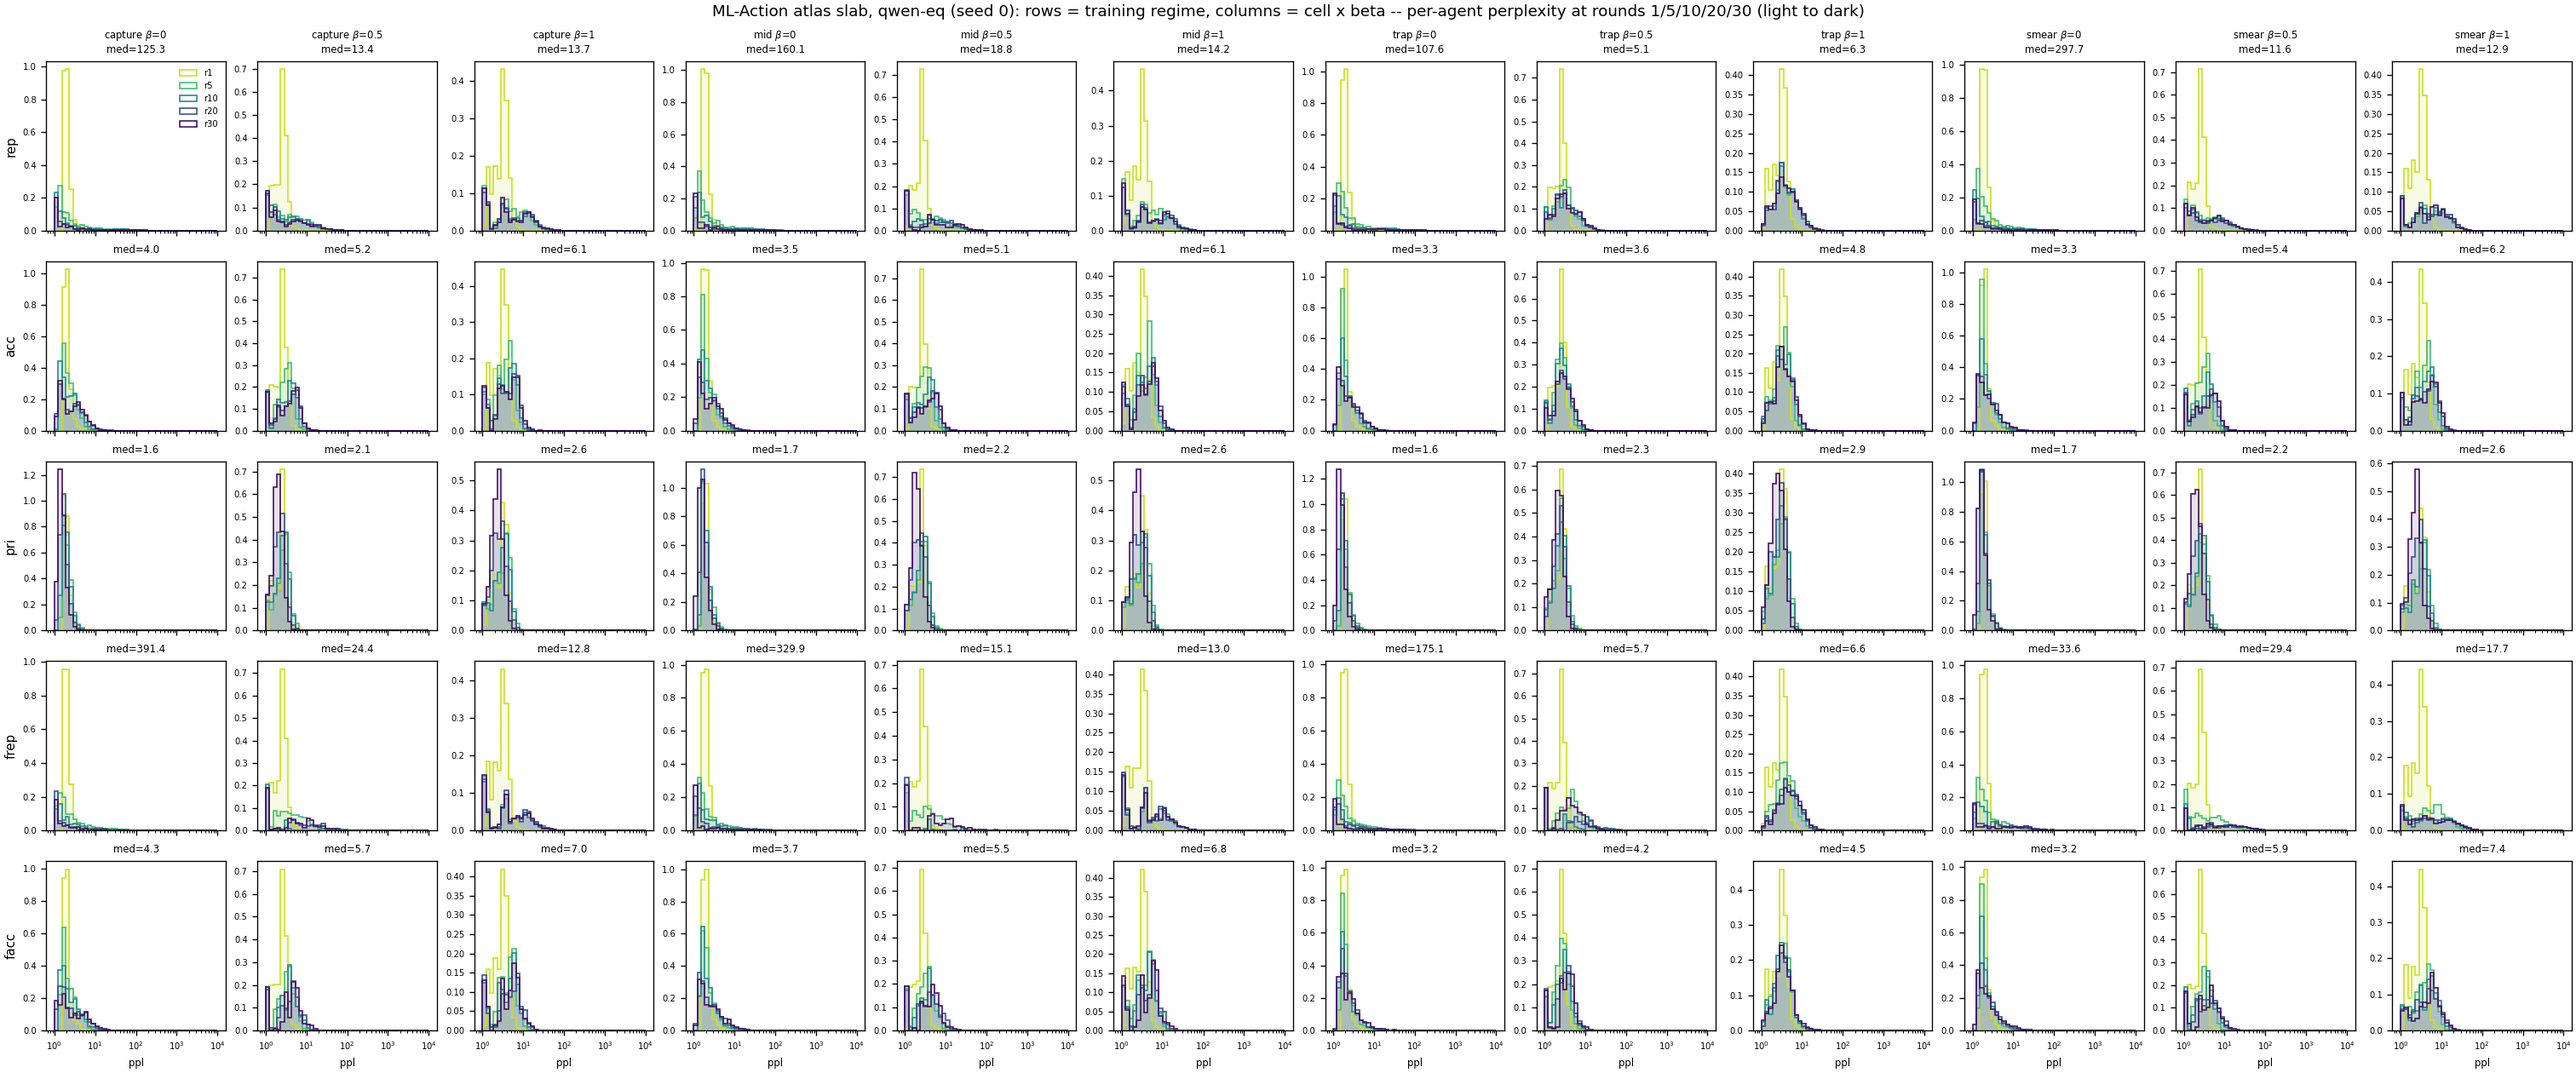
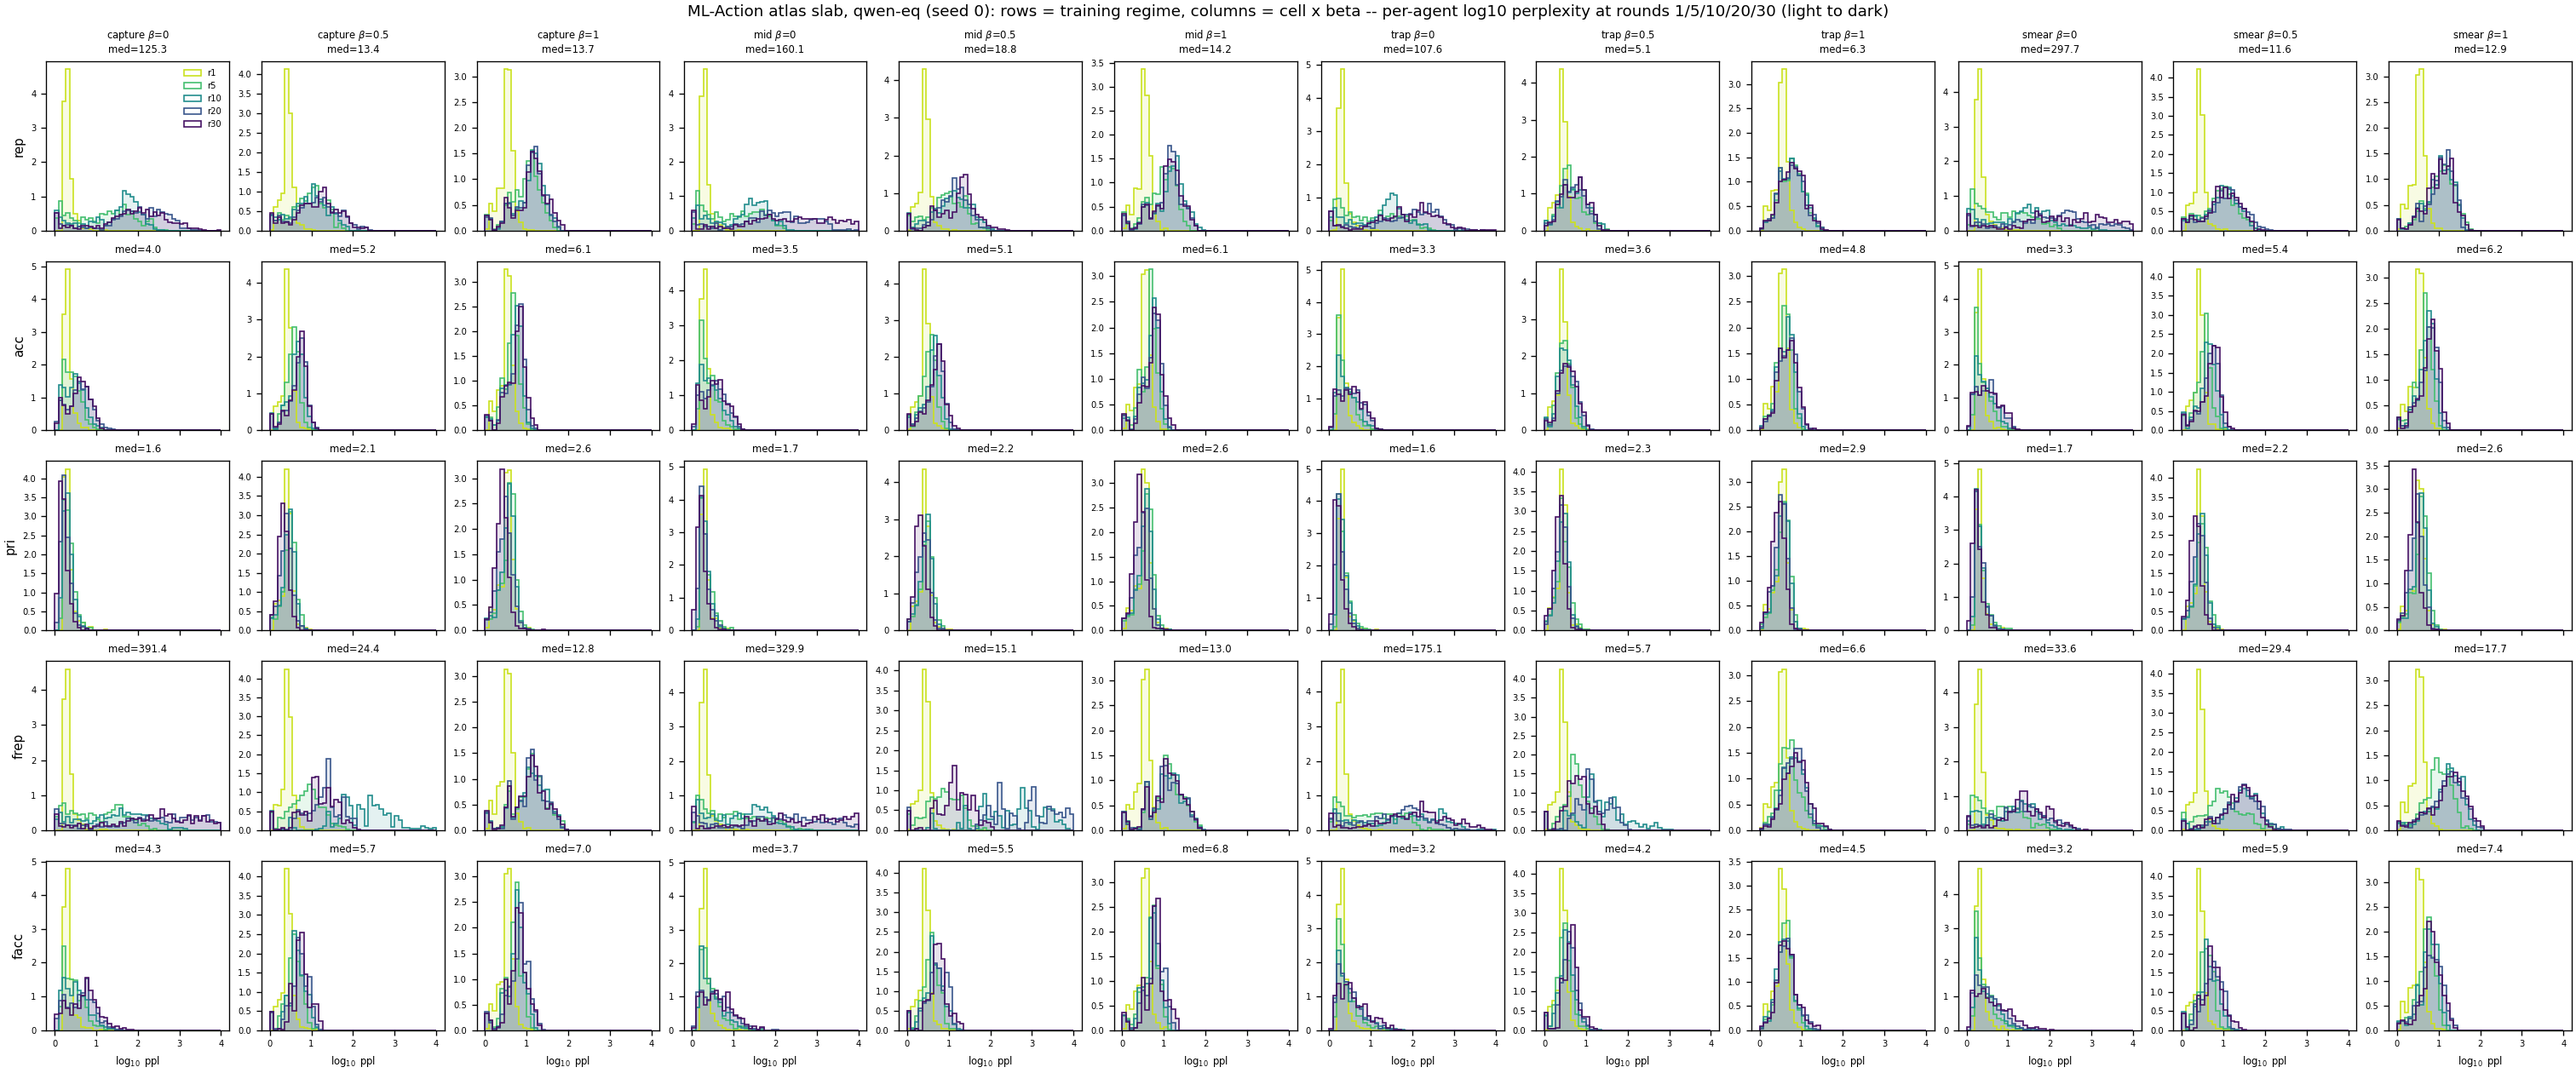
predict

diff --git a/experiments/llm/plot_knob_ppl_lines.py b/experiments/llm/plot_knob_ppl_lines.py
@@ -1,0 +1,121 @@
+"""Model-health companion to the knob grids: median log10 perplexity per
+round for the gate dial (legend = eps_AI) and feature dial (legend =
+realized probe R2), one column per beta. Qwen only (dial runs are Qwen).
+"""
+import os
+import numpy as np
+import pandas as pd
+import torch
+
+os.environ.setdefault("MPLCONFIGDIR", "/tmp/mpl")
+import matplotlib
+matplotlib.use("Agg")
+import matplotlib.pyplot as plt
+
+RUNS = "runs/pokec_gated_lm"
+FIGS = "experiments/llm/figs/qwen"
+GATE_LEVELS = [("a005", 0.05), ("a010", 0.10), ("a015", 0.15), ("a020", 0.20),
+               ("a030", 0.30), ("a040", 0.40), ("a070", 0.70), ("a100", 1.00)]
+FEAT_KNOBS = ["p100", "p065", "p040", "p033", "p015", "p005", "nat",
+              "q025", "q050", "q100"]
+BETAS = [("b0", "0"), ("b0p5", "0.5"), ("b1", "1")]
+
+LEGACY = {}
+for c in ["e040_a010", "e040_a020", "e040_a040", "e020_a040"]:
+    LEGACY[(c, "b0")] = f"mla2dv2_{c}_b0_s0"
+for c in ["e040_a010", "e040_a040", "e020_a040"]:
+    for b in ["b0p5", "b1"]:
+        LEGACY[(c, b)] = f"mla2bv2_{c}_{b}_s0"
+
+
+def exists(tag):
+    return tag and os.path.exists(f"{RUNS}/{tag}/trajectory.pt")
+
+
+def gate_tag(ac, beta):
+    for t in (f"mlatA_e040_{ac}_rep_{beta}_s0",
+              f"mlat_e040_{ac}_rep_{beta}_s0",
+              LEGACY.get((f"e040_{ac}", beta), "")):
+        if exists(t):
+            return t
+    return None
+
+
+def feat_tag(knob, beta):
+    if knob == "nat":
+        for t in (f"mlat_e040_a040_rep_{beta}_s0", LEGACY.get(("e040_a040", beta), "")):
+            if exists(t):
+                return t
+        return None
+    t = f"mlatF_{knob}_e040_a040_rep_{beta}_s0"
+    return t if exists(t) else None
+
+
+def load(tag):
+    d = torch.load(f"{RUNS}/{tag}/trajectory.pt", map_location="cpu", weights_only=False)
+    lp = np.log10(np.clip(np.asarray(d["ppl_raw"], np.float32), 1.0, None))
+    return np.median(lp, axis=1), d
+
+
+def realized_r2(d):
+    prof = pd.DataFrame(d["profiles"])
+    y = np.asarray(d["innate"], float)
+    cols = []
+    for c in prof.columns:
+        v = prof[c]
+        if pd.api.types.is_numeric_dtype(v):
+            cols.append(v.values.astype(float)[:, None])
+        else:
+            cols.append(pd.get_dummies(v).values.astype(float))
+    X = np.hstack(cols); X = (X - X.mean(0)) / (X.std(0) + 1e-9)
+    rng = np.random.default_rng(0); idx = rng.permutation(len(y)); yh = np.zeros_like(y)
+    for f in range(5):
+        te = idx[f::5]; tr = np.setdiff1d(idx, te)
+        w = np.linalg.solve(X[tr].T @ X[tr] + np.eye(X.shape[1]),
+                            X[tr].T @ (y[tr] - y[tr].mean()))
+        yh[te] = y[tr].mean() + X[te] @ w
+    return float(1 - ((y - yh) ** 2).sum() / ((y - y.mean()) ** 2).sum())
+
+
+plt.rcParams.update({"font.family": "serif", "mathtext.fontset": "stix",
+                     "axes.spines.top": False, "axes.spines.right": False,
+                     "axes.linewidth": 1.1, "xtick.labelsize": 10, "ytick.labelsize": 10})
+
+fig, axes = plt.subplots(2, 3, figsize=(13.5, 7.6), sharex=True, sharey=True,
+                         constrained_layout=True)
+for ci, (bc, blab) in enumerate(BETAS):
+    rows = []
+    for ac, aval in GATE_LEVELS:
+        tag = gate_tag(ac, bc)
+        if tag:
+            rows.append((aval, load(tag)[0]))
+    ramp = plt.cm.GnBu(np.linspace(0.95, 0.35, max(len(rows), 2)))
+    for (lv, y), c in zip(sorted(rows, key=lambda z: -z[0]), ramp):
+        axes[0, ci].plot(np.arange(1, len(y) + 1), y, color=c, lw=2.0, label=f"{lv:.2f}")
+    axes[0, ci].set_title(f"gate dial, $\\beta$={blab}", fontsize=12)
+    if rows:
+        axes[0, ci].legend(title="$\\epsilon_{AI}$", fontsize=8, title_fontsize=10,
+                           frameon=False, ncols=2)
+
+    rows = []
+    for knob in FEAT_KNOBS:
+        tag = feat_tag(knob, bc)
+        if tag:
+            y, d = load(tag)
+            rows.append((realized_r2(d), y))
+    ramp = plt.cm.GnBu(np.linspace(0.95, 0.35, max(len(rows), 2)))
+    for (lv, y), c in zip(sorted(rows, key=lambda z: -z[0]), ramp):
+        axes[1, ci].plot(np.arange(1, len(y) + 1), y, color=c, lw=2.0, label=f"{lv:.2f}")
+    axes[1, ci].set_title(f"feature dial, $\\beta$={blab}", fontsize=12)
+    if rows:
+        axes[1, ci].legend(title="$R^2$", fontsize=8, title_fontsize=10,
+                           frameon=False, ncols=2)
+    axes[1, ci].set_xlabel("round", fontsize=12)
+for ax in axes[:, 0]:
+    ax.set_ylabel("median $\\log_{10}$ ppl", fontsize=12)
+fig.suptitle("Qwen ML-Action dials (trap-cell world, rep/continual, seed 0): "
+             "model health per round", fontsize=13)
+out = f"{FIGS}/knob_ppl_lines.png"
+fig.savefig(out, dpi=140)
+plt.close(fig)
+print(f"saved {out}")

diff --git a/experiments/llm/plot_ppl_lines.py b/experiments/llm/plot_ppl_lines.py
@@ -1,0 +1,98 @@
+"""Model-health trajectories: per-round log10 perplexity as line charts,
+one figure per (model arm, statistic). Panels: rows = beta, cols = cell;
+lines = training regime (color = data recipe, dashed = fresh weights).
+"""
+import os
+import numpy as np
+import torch
+
+os.environ.setdefault("MPLCONFIGDIR", "/tmp/mpl")
+import matplotlib
+matplotlib.use("Agg")
+import matplotlib.pyplot as plt
+
+RUNS = "runs/pokec_gated_lm"
+FIGS = "experiments/llm/figs"
+MODELS = {
+    "qwen": "mlat",
+    "qwen-reset": "mlatR",
+    "qwen-eq": "mlatE",
+    "llama": "mlatL",
+    "gemma": "mlatG",
+    "mistral": "mlatM",
+}
+CELLS = ["e040_a010", "e040_a020", "e040_a040", "e020_a040"]
+CELL_LABEL = {"e040_a010": "capture", "e040_a020": "mid",
+              "e040_a040": "trap", "e020_a040": "smear"}
+REGIMES = ["rep", "acc", "pri", "frep", "facc"]
+STYLE = {"rep": ("#1b9e77", "-"), "acc": ("#d95f02", "-"), "pri": ("#7570b3", "-"),
+         "frep": ("#1b9e77", "--"), "facc": ("#d95f02", "--")}
+BETAS = [("b0", "0"), ("b0p5", "0.5"), ("b1", "1")]
+
+LEGACY = {}
+for c in CELLS:
+    LEGACY[(c, "rep", "b0")] = f"mla2dv2_{c}_b0_s0"
+for c in ["e040_a010", "e040_a040", "e020_a040"]:
+    for b in ["b0p5", "b1"]:
+        LEGACY[(c, "rep", b)] = f"mla2bv2_{c}_{b}_s0"
+LEGACY[("e040_a040", "acc", "b0")] = "mla2drv2_e040_a040_b0_acc_s0"
+LEGACY[("e040_a040", "pri", "b0")] = "mla2drv2_e040_a040_b0_pri_s0"
+LEGACY[("e040_a040", "frep", "b0")] = "mla2dfv2_e040_a040_b0_rep_s0"
+LEGACY[("e040_a040", "facc", "b0")] = "mla2dfv2_e040_a040_b0_acc_s0"
+
+
+def find_tag(model, cell, regime, beta):
+    tag = f"{MODELS[model]}_{cell}_{regime}_{beta}_s0"
+    if os.path.exists(f"{RUNS}/{tag}/trajectory.pt"):
+        return tag
+    if model == "qwen":
+        leg = LEGACY.get((cell, regime, beta))
+        if leg and os.path.exists(f"{RUNS}/{leg}/trajectory.pt"):
+            return leg
+    return None
+
+
+def load_lp(tag):
+    d = torch.load(f"{RUNS}/{tag}/trajectory.pt", map_location="cpu", weights_only=False)
+    return np.log10(np.clip(np.asarray(d["ppl_raw"], np.float32), 1.0, None))
+
+
+plt.rcParams.update({"font.family": "serif", "mathtext.fontset": "stix",
+                     "axes.spines.top": False, "axes.spines.right": False,
+                     "axes.linewidth": 1.0, "xtick.labelsize": 9, "ytick.labelsize": 9})
+
+for model in MODELS:
+    if not any(find_tag(model, c, r, b) for c in CELLS for r in REGIMES
+               for b, _ in BETAS):
+        continue
+    os.makedirs(f"{FIGS}/{model}", exist_ok=True)
+    for stat, fn in [("median", lambda a: np.median(a, axis=1)),
+                     ("mean", lambda a: a.mean(axis=1))]:
+        fig, axes = plt.subplots(len(BETAS), len(CELLS), figsize=(13.5, 8.2),
+                                 sharex=True, sharey=True, constrained_layout=True)
+        for ri, (bc, blab) in enumerate(BETAS):
+            for ci, cell in enumerate(CELLS):
+                ax = axes[ri, ci]
+                for regime in REGIMES:
+                    tag = find_tag(model, cell, regime, bc)
+                    if tag is None:
+                        continue
+                    y = fn(load_lp(tag))
+                    color, ls = STYLE[regime]
+                    ax.plot(np.arange(1, len(y) + 1), y, color=color, ls=ls,
+                            lw=1.8, label=regime)
+                if ri == 0:
+                    ax.set_title(CELL_LABEL[cell], fontsize=12)
+                if ci == 0:
+                    ax.set_ylabel(f"$\\beta$={blab}\n{stat} $\\log_{{10}}$ ppl",
+                                  fontsize=11)
+                if ri == len(BETAS) - 1:
+                    ax.set_xlabel("round", fontsize=11)
+        axes[0, 0].legend(fontsize=9, frameon=False, ncols=2)
+        fig.suptitle(f"ML-Action atlas slab, {model} (seed 0): per-agent "
+                     f"{stat} log10 perplexity per round; dashed = fresh weights",
+                     fontsize=12)
+        out = f"{FIGS}/{model}/ppl_lines_{stat}.png"
+        fig.savefig(out, dpi=140)
+        plt.close(fig)
+        print(f"saved {out}")

diff --git a/experiments/llm/plot_atlas_grids.py b/experiments/llm/plot_atlas_grids.py
@@ -32,7 +32,7 @@ BETAS = [("b0", "0"), ("b0p5", "0.5"), ("b1", "1")]
 TAIL = 5
 OPBINS = 50
 SNAPS = [0, 4, 9, 19, 29]
-PPLBINS = np.logspace(0, 4, 45)
+PPLBINS = np.linspace(0, 4, 45)   # log10 ppl
 
 LEGACY = {}
 for c in CELLS:
@@ -85,12 +85,12 @@ def op_panel(ax, tag):
 
 def ppl_panel(ax, tag, show_legend=False):
     _, _, _, ppl = load(tag)
+    lp = np.log10(ppl)
     colors = plt.cm.viridis(np.linspace(0.92, 0.05, len(SNAPS)))
     for t, c in zip(SNAPS, colors):
-        ax.hist(ppl[t], bins=PPLBINS, density=True, histtype="stepfilled", alpha=0.12, color=c)
-        ax.hist(ppl[t], bins=PPLBINS, density=True, histtype="step", color=c, lw=1.0,
+        ax.hist(lp[t], bins=PPLBINS, density=True, histtype="stepfilled", alpha=0.12, color=c)
+        ax.hist(lp[t], bins=PPLBINS, density=True, histtype="step", color=c, lw=1.0,
                 label=f"r{t + 1}" if show_legend else None)
-    ax.set_xscale("log")
     ax.set_title(f"med={np.median(ppl[-TAIL:]):.1f}", fontsize=7)
     if show_legend:
         ax.legend(fontsize=6, frameon=False)
@@ -124,13 +124,14 @@ for model in MODELS:
                     if ci * len(BETAS) + bi == 0:
                         ax.set_ylabel(regime, fontsize=9)
                     if ri == len(REGIMES) - 1:
-                        ax.set_xlabel("round" if kind == "opinions" else "ppl", fontsize=7)
+                        ax.set_xlabel("round" if kind == "opinions" else "$\\log_{10}$ ppl",
+                                      fontsize=7)
                     ax.tick_params(labelsize=6)
         fig.suptitle(f"ML-Action atlas slab, {model} (seed 0): rows = training "
                      "regime, columns = cell x beta -- "
                      + ("opinion distribution/round + platform p10/p50/p90"
                         if kind == "opinions" else
-                        "per-agent perplexity at rounds 1/5/10/20/30 (light to dark)"),
+                        "per-agent log10 perplexity at rounds 1/5/10/20/30 (light to dark)"),
                      fontsize=11)
         out = f"{FIGS}/{model}/grid_{kind}_atlas.png"
         fig.savefig(out, dpi=120); plt.close(fig)
